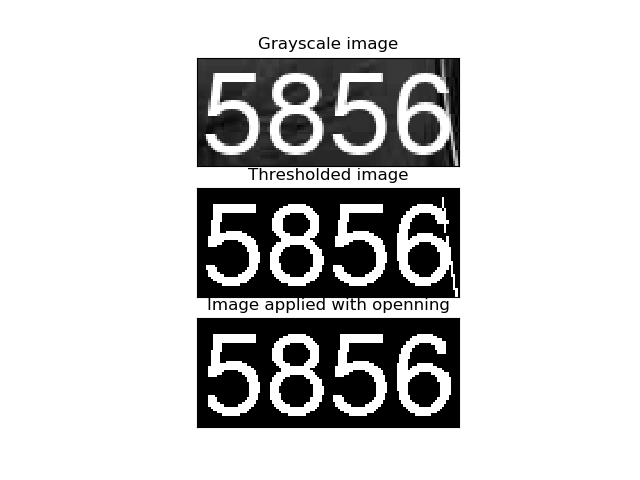
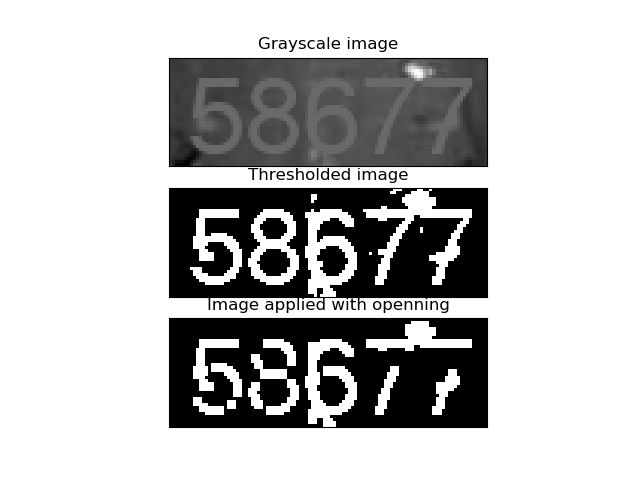
改了一下硬编码的阈值。调整了一下计算竖直方向投影的逻辑（然而似乎没什么用）

Changed region(s): [[0.25, 0.0938, 0.7812, 0.625], [0.25, 0.6562, 0.7812, 0.9062]]

diff --git a/digit-seg.py b/digit-seg.py
@@ -27,8 +27,12 @@ def mkmorph(img):
     '''
     形态学处理孤立小点等
     '''
+    # img = cv2.pyrUp(img)
+    # img = cv2.pyrUp(img)
     kernel = np.ones((3,3), np.uint8)
     img_openning = cv2.morphologyEx(img, cv2.MORPH_OPEN, kernel)
+    # img_openning = cv2.pyrDown(img_openning)
+    # img_openning = cv2.pyrDown(img_openning)
     return img_openning
 
 # is the background black or white?
@@ -89,7 +93,7 @@ def get_height(projection_horz, th_y_val):
         n+=1
     return height_up, height_down
 
-def digit_seg(img, th_x_factor=0.175, th_y_factor=0.15, want_plt=False):
+def digit_seg(img, th_x_factor=0.10, th_y_factor=0.15, want_plt=False):
     '''
     根据竖直和水平投影的信息分割出数字。返回包含所有分割结果图像的borders（横坐标集合）
 
@@ -105,12 +109,17 @@ def digit_seg(img, th_x_factor=0.175, th_y_factor=0.15, want_plt=False):
 
     imgs_segmented = []
     # project and plot
-    projection_vert = np.sum(img, axis=0) / 255 # 沿着竖直方向投影
+    
     projection_horz = np.sum(img, axis=1) / 255 # 沿着水平方向投影
-    mx_x = np.max(projection_vert)
-    th_x_val = mx_x * th_x_factor
     mx_y = np.max(projection_horz)
     th_y_val = mx_y * th_y_factor
+    heights = get_height(projection_horz, th_y_val)
+    img_roi = img[heights[0]:heights[1],:]
+
+    projection_vert = np.sum(img_roi, axis=0) / 255 # 沿着竖直方向投影
+    mx_x = np.max(projection_vert)
+    th_x_val = mx_x * th_x_factor
+    
     if want_plt:
         plt.figure()
         plt.subplot(2,2,1)
@@ -138,7 +147,6 @@ def digit_seg(img, th_x_factor=0.175, th_y_factor=0.15, want_plt=False):
         border_right = get_border_right(projection_vert, border_left, th_x_val)
         borders.append((border_left, border_right))
     print("vertical borders are ", borders)
-    heights = get_height(projection_horz, th_y_val)
     print("get_height: height range {0}".format(heights))
     return borders, heights
 
